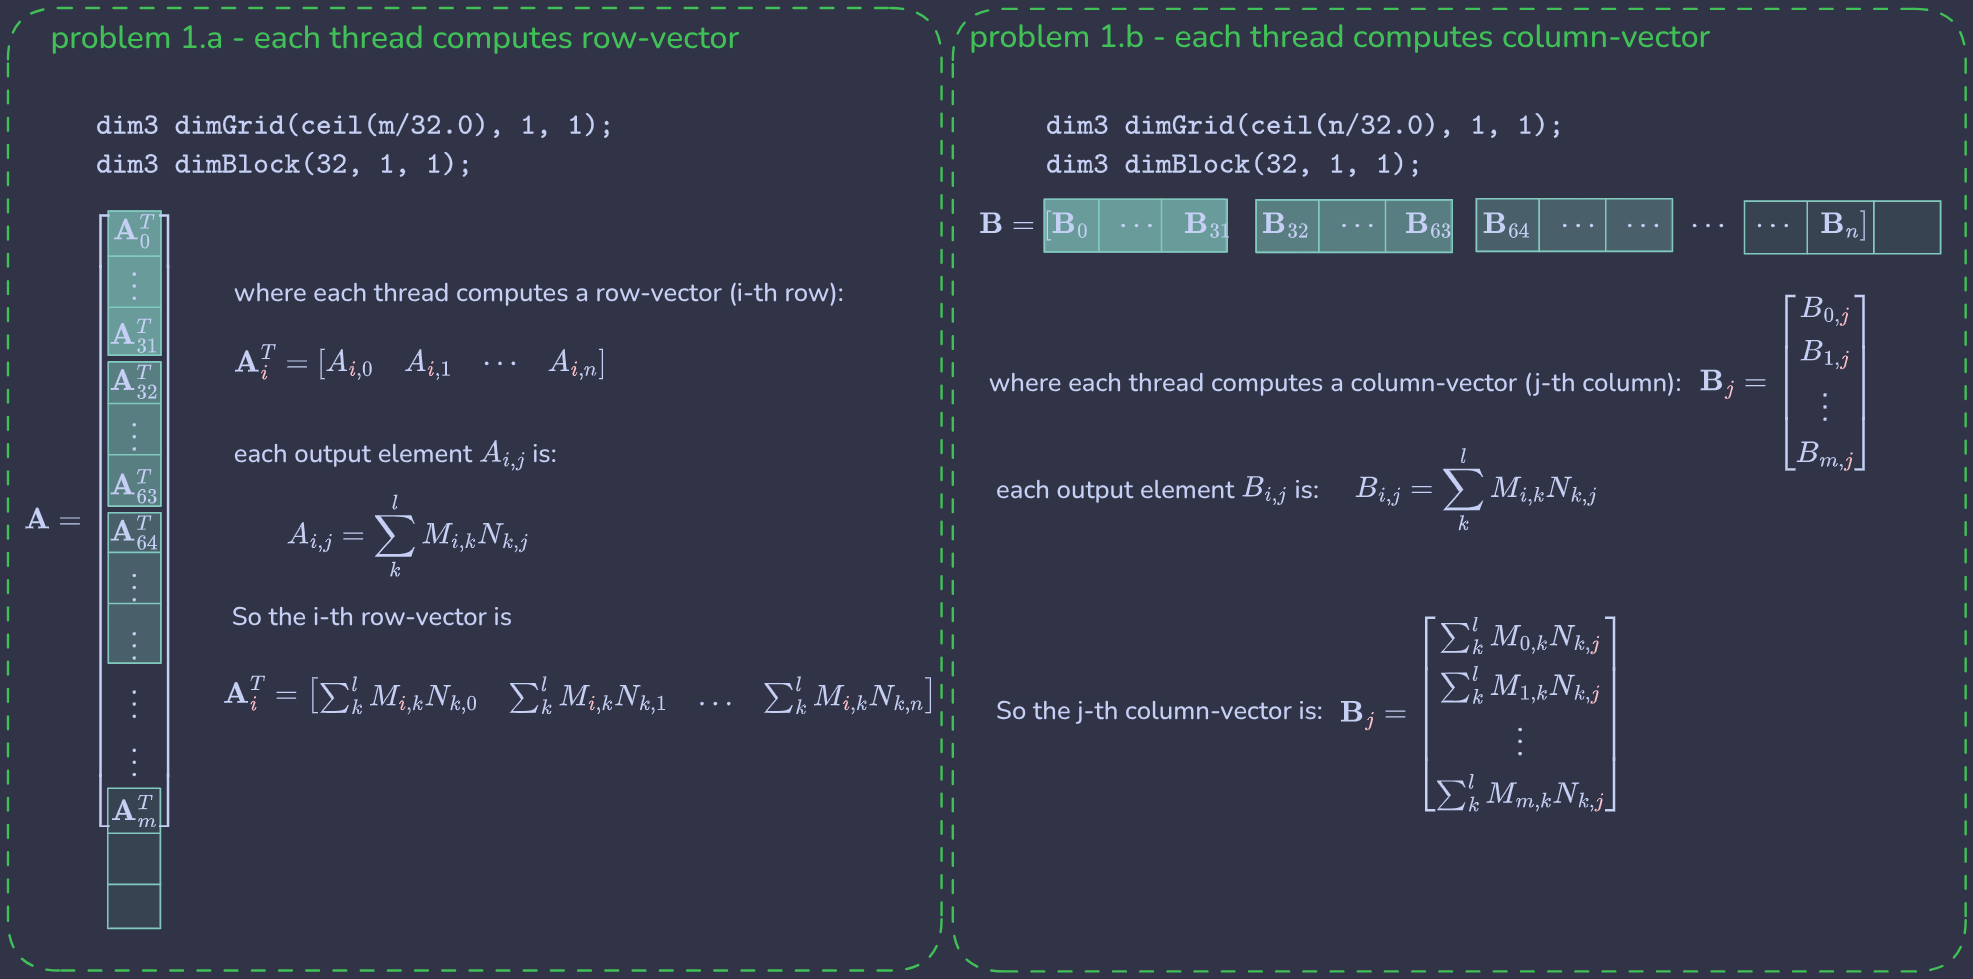
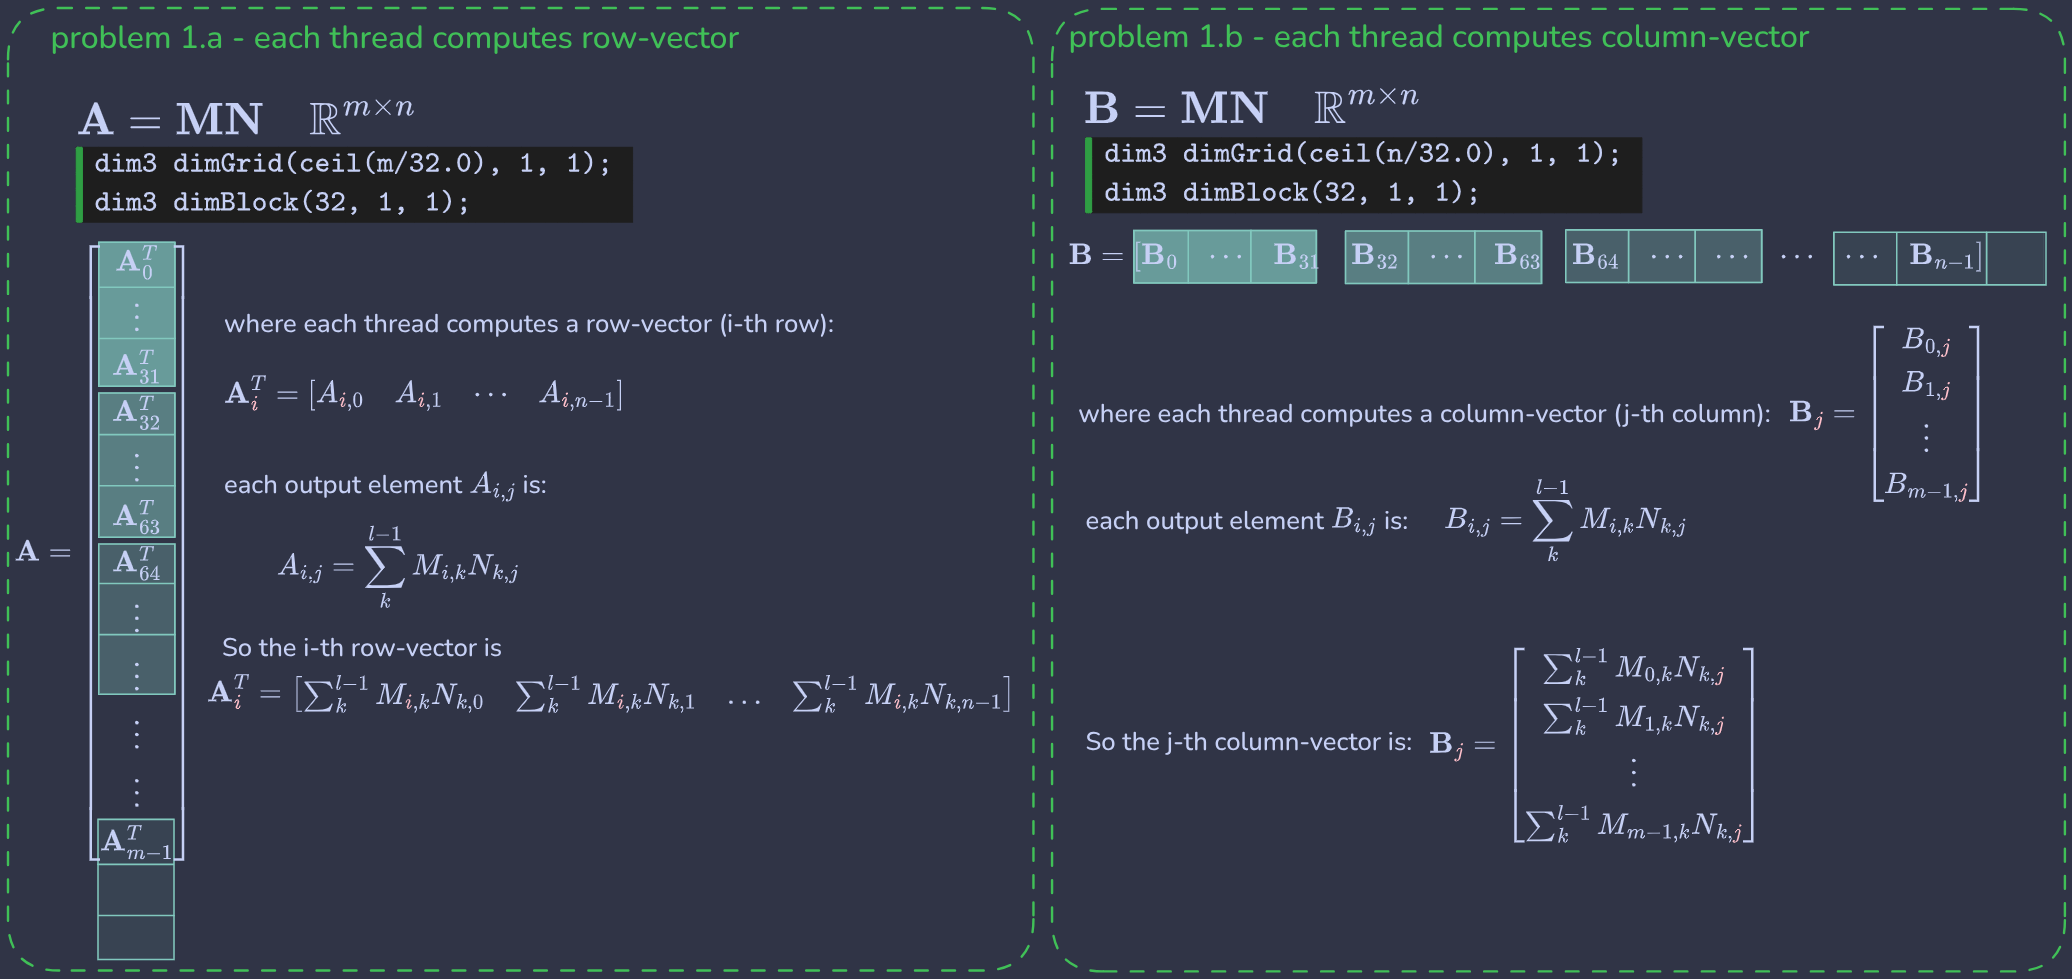
CUDA indexing vs math indexing

diff --git a/src/ch03/cuda-code/README.md b/src/ch03/cuda-code/README.md
@@ -121,13 +121,13 @@ __global__ void MatrixMulKernel(
 
 ### Exercise 1
 
-[ch03_ex01.cu](ch03_ex01.cu) shows two kernel variants for matrix multiplication where $M\in\mathbb{R}^{m\times k}$ and $N \in \mathbb{R}^{k\times n}$:
+[ch03_ex01.cu](ch03_ex01.cu) shows two kernel variants for matrix multiplication where $M\in\mathbb{R}^{m\times l}$ and $N \in \mathbb{R}^{l\times n}$:
 
-- **1.a** — one thread computes an entire output row-vector `A[row,:]` $\leftarrow \left[\sum_{k_{th}}^k M_{\text{row},k_{th}}N_{k_{th},0}, \ldots, \sum_{k_{th}}^k M_{\text{row},k_{th}}N_{k_{th},n-1}\right]$
-- **1.b** — one thread computes an entire output column-vector `B[:,col]` $\leftarrow \left[\sum_{k_{th}}^k M_{0,k_{th}}N_{k_{th},\text{col}}, \ldots, \sum_{k_{th}}^k M_{m-1,k_{th}}N_{k_{th},\text{col}}\right]^T$
-- **1.c** - Neither is optimal. Both carry one uncoalesced access pattern. The tiled shared memory approach (ch. 5) resolves this.
+- **1.a** — one thread computes an entire output row-vector `A[:][row]` $\leftarrow \left[\sum_k^{l-1} M_{\text{row},k}N_{k,0}, \ldots, \sum_k^{l-1} M_{\text{row},k}N_{k,n-1}\right]$
+- **1.b** — one thread computes an entire output column-vector `B[col][:]` $\leftarrow \left[\sum_k^{l-1} M_{0,k_{th}}N_{k_{th},\text{col}}, \ldots, \sum_{k_{th}}^{l-1} M_{m-1,k_{th}}N_{k_{th},\text{col}}\right]^T$
+- **1.c** - Neither is optimal. Both carry one uncoalesced access pattern. The tiled shared memory approach (Ch. 5) resolves this
 
-<img src="../../../images/ch03/ch03_ex01-sol.png" width="80%">
+<img src="../../../images/ch03/ch03_ex01-sol.png" width="100%">
 
 ```cuda
 // A - write a kernel that has each thread produce one output matrix row
@@ -143,7 +143,7 @@ __global__ void matmulRowKernel(
 
   if (row < m) {
     // Compute output row-vector A[row,:]
-    // populate all j-th (\in n) elements of row-vector A[row,j] = \sum_k^l M[row,k] * N[k,j]
+    // populate all j-th (\in n) elements of row-vector A[row,j] = \sum_k^{l-1} M[row,k] * N[k,j]
     for (int Nj = 0; Nj < n; ++Nj) {
       float acc = 0.0f;
       for (int k = 0; k < l; ++k) {
@@ -167,7 +167,7 @@ __global__ void matmulColKernel(
 
   if (col < n) {
     // Compute output col-vector B[:,col]
-    // populate all i-th (\in m) elements of col-vector B[i,col] = \sum_k^l M[i,k] * N[k,col]
+    // populate all i-th (\in m) elements of col-vector B[i,col] = \sum_k^{l-1} M[i,k] * N[k,col]
     for (int Mi = 0; Mi < m; ++Mi) {
       float acc = 0.0f;
       for (int k = 0; k < l; ++k){
@@ -229,11 +229,21 @@ void foo(float* a_d , float* b_d) {
 
 ### Exercise 4
 
-Given a 2D matrix $M\in\mathbb{R}^{m\times n}$ stored as a flat vector, express element `M[i, j]` in:
+Given a 2D matrix $M\in\mathbb{R}^{m\times n}$ stored as a flat vector, express element `M[j][i]` in:
 
 - **Row-major:** `M[i * n + j]`
 - **Column-major:** `M[j * m + i]`
 
 ### Exercise 5
 
-Given a 3D tensor $T\in\mathbb{R}^{m\times n\times r}$ flattened in row-major order, element `T[i, j, k]` is `T[i * n * r + j * r + k]`
+Given a 3D tensor $M\in\mathbb{R}^{m\times n\times l}$ in row-major order the leftmost index varies fastest, so the strides are:
+- $i$ (rows) has stride $n \times r$
+- $j$ (cols) has stride $r$
+- $k$ (depth) has stride $1$
+
+> [!Important] CUDA indexing *code notation* is backwards to mathematical index notation
+> 
+> In mathematics tensor elements are indexed from *left-to-right* (larger-to-smaller stride) $T_{i,j,k}\xrightarrow_{\text{flat}}T_{i\times (n\times r) + j\times r + k}$
+> Whereas in **CUDA code** indexes go from *right-to-left* (smaller-to-larger stride) `T[z][y][x]` is `T[z * m * n + y * n + x]`
+
+So the element `T[z=5][y=20][x=10]` of a $(\text{row, col, depth})=(m,n,l)=(500, 400, 300)$ tensor is accessed (in row-major) as `T[5*500*400 + 20*400 + 10] = T[1008010]`
